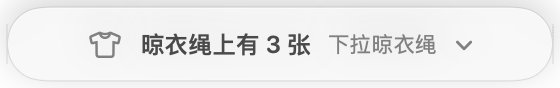
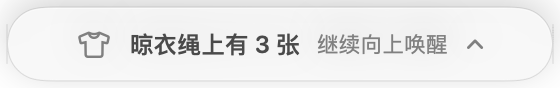
Add click preview and upward hint wake

Changed region(s): [[0.1214, 0.3636, 0.8804, 0.6591]]

diff --git a/Sources/Tendedero/HoverHintPanel.swift b/Sources/Tendedero/HoverHintPanel.swift
@@ -2,8 +2,10 @@ import AppKit
 import SwiftUI
 
 /// A small glass pill under the menu bar. It appears as soon as the pointer
-/// rests at the top center, so the gesture has a visible affordance before
-/// the line drops. The line itself still waits for the hover delay.
+/// rests at the top center, then slides upward toward the menu bar while the
+/// hover delay runs. Reaching the top wakes the line; so does letting the
+/// pill finish its climb. The upward motion is the affordance: keep pushing
+/// up, and the line comes down.
 ///
 /// It never takes a click and never becomes key: it is a sign, not a control.
 @MainActor
@@ -34,17 +36,28 @@ final class HoverHintPanel: NSPanel {
     override var canBecomeKey: Bool { false }
     override var canBecomeMain: Bool { false }
 
-    /// Shows, repositions or updates the hint. Cheap to call from the 30 Hz
-    /// pointer timer: the frame only changes when the screen or count does.
-    func show(count: Int, on screen: NSScreen) {
+    /// Let the pill climb into the menu bar. The default window constraint
+    /// stops it at the menu bar's lower edge, which would hide the whole
+    /// upward gesture.
+    override func constrainFrameRect(_ frameRect: NSRect, to screen: NSScreen?) -> NSRect {
+        frameRect
+    }
+
+    /// Shows, repositions or updates the hint. `progress` runs from 0 to 1
+    /// over the hover delay and lifts the pill toward the menu bar. Cheap to
+    /// call from the 30 Hz pointer timer: the window just moves.
+    func show(count: Int, on screen: NSScreen, progress: Double) {
         if count != shownCount {
             shownCount = count
             hosting.rootView = HoverHintView(count: count)
         }
         let size = NSSize(width: 280, height: 44)
         let bar = AppDelegate.menuBarBand(of: screen)
+        // The last stretch lifts the pill into the menu bar, as if it were
+        // being pulled up to wake the line.
+        let lift = CGFloat(min(1, max(0, progress))) * 22
         let target = NSRect(x: screen.frame.midX - size.width / 2,
-                            y: bar.minY - size.height - 6,
+                            y: bar.minY - size.height - 6 + lift,
                             width: size.width, height: size.height)
         if frame != target { setFrame(target, display: true) }
 
@@ -82,10 +95,10 @@ private struct HoverHintView: View {
             } else {
                 Text(String(format: L("%d on the line"), count))
                     .font(.system(size: 12, weight: .semibold, design: .rounded))
-                Text(L("Pull down the line"))
+                Text(L("Keep moving up to wake"))
                     .font(.system(size: 11, weight: .regular, design: .rounded))
                     .foregroundStyle(.secondary)
-                Image(systemName: "chevron.down")
+                Image(systemName: "chevron.up")
                     .font(.system(size: 9, weight: .bold))
                     .foregroundStyle(.secondary)
             }

diff --git a/Sources/Tendedero/GrabArea.swift b/Sources/Tendedero/GrabArea.swift
@@ -9,9 +9,9 @@ import SwiftUI
 /// - The Trash discards it.
 /// - Nowhere that accepts it: the photo flies back to the line.
 ///
-/// Double click copies, press and hold opens Markup, the corner cross
+/// Single click opens Quick Look (or copies, when that option is on),
+/// double click copies, press and hold opens Markup, the corner cross
 /// discards, middle click deletes, right click keeps the original menu.
-/// Single click copies only when that option is turned on.
 struct GrabArea: NSViewRepresentable {
     let item: Pegged
     let line: Line
@@ -32,7 +32,7 @@ struct GrabArea: NSViewRepresentable {
         let isRecording = item.isRecording
         view.url = item.url
         view.dragImage = item.thumb
-        view.onClick = { if line.clickCopies { line.copy(id) } }
+        view.onClick = { if line.clickCopies { line.copy(id) } else { line.quickLook(id) } }
         view.onDoubleClick = { line.copy(id) }
         view.onDragStart = { line.draggingID = id }
         view.onDragEnd = {
@@ -102,6 +102,9 @@ final class GrabView: NSView, NSDraggingSource {
     private var startedDrag = false
     private var holdTimer: Timer?
     private var didLongPress = false
+    /// A single click previews only once it is clear it is not the first half
+    /// of a double click, which copies and must not open Quick Look first.
+    private var clickTimer: Timer?
 
     /// How long you hold before Markup opens. Long enough not to fire on a
     /// slow click, short enough to feel deliberate.
@@ -121,6 +124,10 @@ final class GrabView: NSView, NSDraggingSource {
     }
 
     override func mouseDown(with event: NSEvent) {
+        if event.clickCount > 1 {
+            clickTimer?.invalidate()
+            clickTimer = nil
+        }
         if isInCross(event) {
             downPoint = nil
             onDiscard()
@@ -180,7 +187,19 @@ final class GrabView: NSView, NSDraggingSource {
     override func mouseUp(with event: NSEvent) {
         endPress()
         if downPoint != nil && !startedDrag && !didLongPress && event.clickCount == 1 {
-            onClick()
+            // Wait as long as the system lets a second click count as a
+            // double click, so a double click copies without previewing first.
+            clickTimer?.invalidate()
+            let action = onClick
+            let timer = Timer(timeInterval: NSEvent.doubleClickInterval, repeats: false) { [weak self] _ in
+                MainActor.assumeIsolated {
+                    self?.clickTimer = nil
+                    action()
+                }
+            }
+            // Keeps time while a menu or a drag runs the loop in another mode.
+            RunLoop.main.add(timer, forMode: .common)
+            clickTimer = timer
         }
         downPoint = nil
         didLongPress = false

diff --git a/Sources/Tendedero/AppDelegate.swift b/Sources/Tendedero/AppDelegate.swift
@@ -74,6 +74,12 @@ final class AppDelegate: NSObject, NSApplicationDelegate, NSMenuDelegate {
         set { UserDefaults.standard.set(newValue, forKey: "topCenterDelay") }
     }
 
+    /// Pushing the pointer to the very top wakes the line as soon as the
+    /// hint has had a moment to appear. Resting a little lower lets the hint
+    /// finish its own upward climb instead.
+    private static let topCenterWakeDelay: TimeInterval = 0.2
+    private static let topCenterWakeBand: CGFloat = 4
+
     /// Something new hanging shows itself for a moment. Off, it hangs
     /// quietly and waits for you to bring the line down.
     static var peeksAtNew: Bool {
@@ -566,9 +572,16 @@ final class AppDelegate: NSObject, NSApplicationDelegate, NSMenuDelegate {
 
         let since = topCenterSince ?? now
         topCenterSince = since
-        hintPanel.show(count: line.liveCount, on: screen)
+        let elapsed = now.timeIntervalSince(since)
+        let progress = line.liveCount > 0 ? min(1, elapsed / Self.topCenterDelay) : 0
+        hintPanel.show(count: line.liveCount, on: screen, progress: progress)
 
-        guard line.liveCount > 0, now.timeIntervalSince(since) >= Self.topCenterDelay else { return }
+        guard line.liveCount > 0 else { return }
+        // Let the hint begin its climb; then either wait for it to finish or
+        // wake at once when the pointer is pressed against the top edge.
+        let atTop = mouse.y >= screen.frame.maxY - Self.topCenterWakeBand
+        let woke = atTop && elapsed >= Self.topCenterWakeDelay
+        guard woke || elapsed >= Self.topCenterDelay else { return }
         topCenterSince = nil
         hideHint()
         if panel.screen != screen {
@@ -772,6 +785,9 @@ final class AppDelegate: NSObject, NSApplicationDelegate, NSMenuDelegate {
         }
         click.state = line.clickCopies ? .on : .off
         mouseMenu.addItem(click)
+        let clickNote = NSMenuItem(title: L("When off, a click previews"), action: nil, keyEquivalent: "")
+        clickNote.isEnabled = false
+        mouseMenu.addItem(clickNote)
         let middle = NSMenuItem(title: L("Middle click deletes the photo under the pointer"), action: nil, keyEquivalent: "")
         middle.isEnabled = false
         mouseMenu.addItem(middle)

diff --git a/README-DEV.md b/README-DEV.md
@@ -10,9 +10,10 @@
 
 - 热区是屏幕顶部正中间的一条窄带：宽约 320 pt，高度为菜单栏高度再加 8 pt。
 - 指针进入热区后立即出现一个玻璃提示气泡：
-  - 有图片时：`晾衣绳上有 3 张 · 下拉晾衣绳` + 向下箭头
+  - 有图片时：`晾衣绳上有 3 张 · 继续向上唤醒` + 向上箭头
   - 空绳时：`截图后会挂在这里`
-- 默认在提示出现 **0.5 秒**后把晾衣绳放下来；指针提前离开就取消，不会误触发。
+- 气泡出现后会**缓慢向上滑向菜单栏**，滑完（默认 0.5 秒）就把晾衣绳放下来；指针提前离开就取消，不会误触发。
+- 如果指针直接顶到屏幕最上沿，约 0.2 秒后立即唤醒，不必等气泡滑完。
 - 菜单栏其他位置（Apple 菜单、状态图标、时钟等）不再触发展开。
 - 可在菜单栏「放下晾衣绳」里：
   - 开关「指针停在顶部正中间时」
@@ -23,10 +24,11 @@
 
 | 操作 | 行为 |
 |:--|:--|
+| 单击 | 快速预览（系统 Quick Look）；等待系统双击间隔后触发，避免和双击冲突 |
 | 双击 | 复制图片（写入 PNG + 文件 URL，显示 `Copied`） |
 | 中键（滚轮按下） | 快速取下指针下的图片 |
 | `⌃⌥⌫` | 删除指针下的图片；快捷键可在「鼠标 → 删除悬停的图片」里改 |
-| 单击 | 默认不复制；可在「鼠标 → 单击即复制」打开原生行为 |
+| 单击（可选） | 菜单「鼠标 → 单击即复制」打开后，单击改为复制，不再预览 |
 | 右键 | 完全保留原生菜单（复制 / 打开 / 快速查看 / 标记 / 在 Finder 中显示 / 保存到桌面 / 取下 / 移到废纸篓 / 清理左右两侧） |
 | 长按 | 原生 Markup |
 | 力度点按 | 原生 Quick Look |
@@ -95,16 +97,18 @@ scripts/build-app.sh
 ## 已验证
 
 - `swift build -c release` 通过，无编译警告；
-- `swift scripts/check-strings.swift` 通过（11 种语言，67 条字符串）；
+- `swift scripts/check-strings.swift` 通过（11 种语言，68 条字符串）；
 - 通用二进制（arm64 + x86_64）构建、ad-hoc 签名通过；
 - 在 2048 × 1152 屏幕上，指针移到顶部正中：
-  - 提示窗出现在 `(884, 36)`，尺寸约 `280 × 44`，alpha = 1；
+  - 提示窗初始出现在 `(884, 36)`，尺寸约 `280 × 44`，alpha = 1；
+  - 随着提示进度，窗口上移到 `(884, 14)`，滑入菜单栏；
   - 0.5 秒后晾衣绳展开，提示窗隐藏；
+  - 指针顶到最上沿时约 0.2 秒唤醒；
   - 指针移开后 0.5 秒收绳，面板 `orderOut` 后 `isVisible = false`；
-- 事件自检：单击 / 双击 / 中键分别触发 `click`、`double`、`middle`；
+- 事件自检结果：`single=true double=true middle=true`（单击延迟判定、双击取消单击、中键删除均通过）；
 - 快捷键注册：显示快捷键与 `⌃⌥⌫` 删除快捷键均注册成功。
 
-> 系统级合成鼠标点击需要「辅助功能」权限。本机终端未授予该权限，因此双击复制与中键删除的**事件派发**已用应用内自检验证，真实鼠标点击请在运行中的 App 上确认。
+> 系统级合成鼠标点击需要「辅助功能」权限。本机终端未授予该权限，因此单击预览、双击复制与中键删除的**事件派发**已用应用内自检验证，真实鼠标点击请在运行中的 App 上确认。
 
 ## 回退
 
